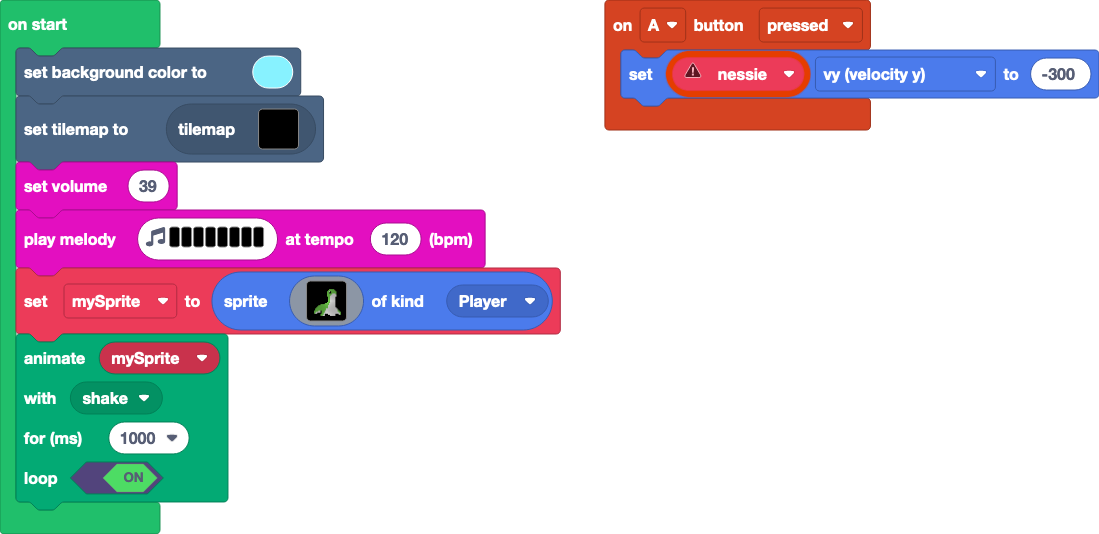
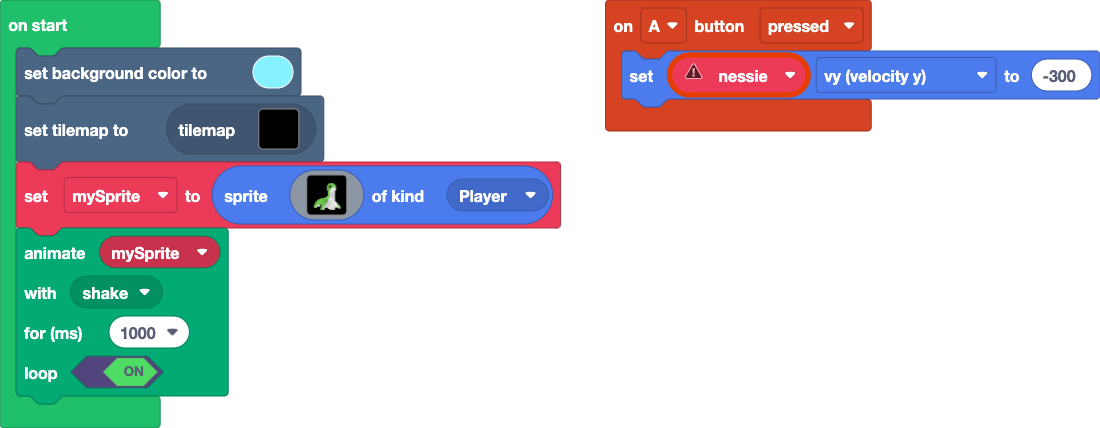
Update main.blocks, main.ts

Changed region(s): [[0.0, 0.0304, 0.5259, 0.972], [0.5259, 0.0, 1.0, 0.3341]]

diff --git a/main.ts b/main.ts
@@ -4,8 +4,6 @@ controller.A.onEvent(ControllerButtonEvent.Pressed, function () {
 })
 scene.setBackgroundColor(9)
 tiles.setCurrentTilemap(tilemap`level1`)
-music.setVolume(39)
-music.playMelody("C5 B G A B C5 E F ", 120)
 let mySprite = sprites.create(assets.image`myImage`, SpriteKind.Player)
 animation.runMovementAnimation(
 mySprite,
